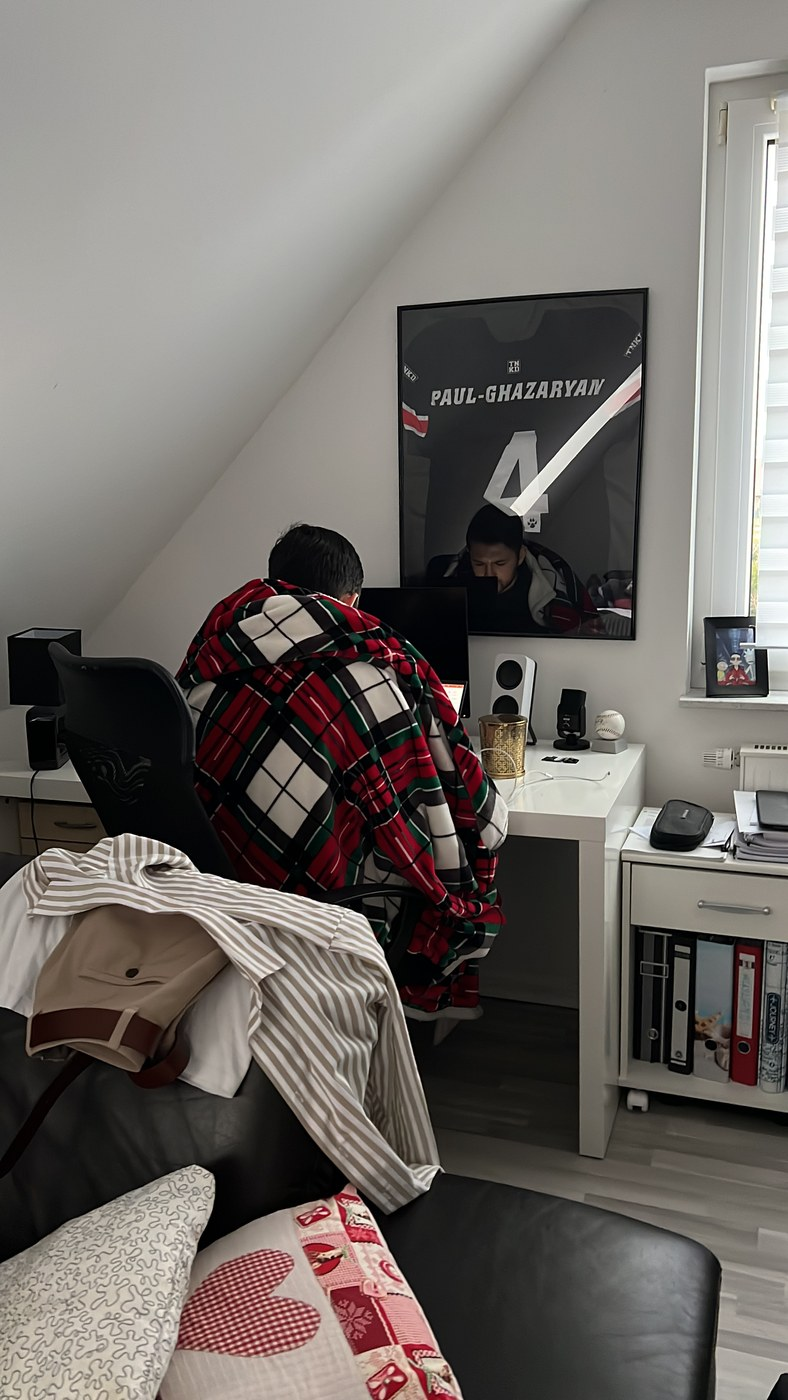
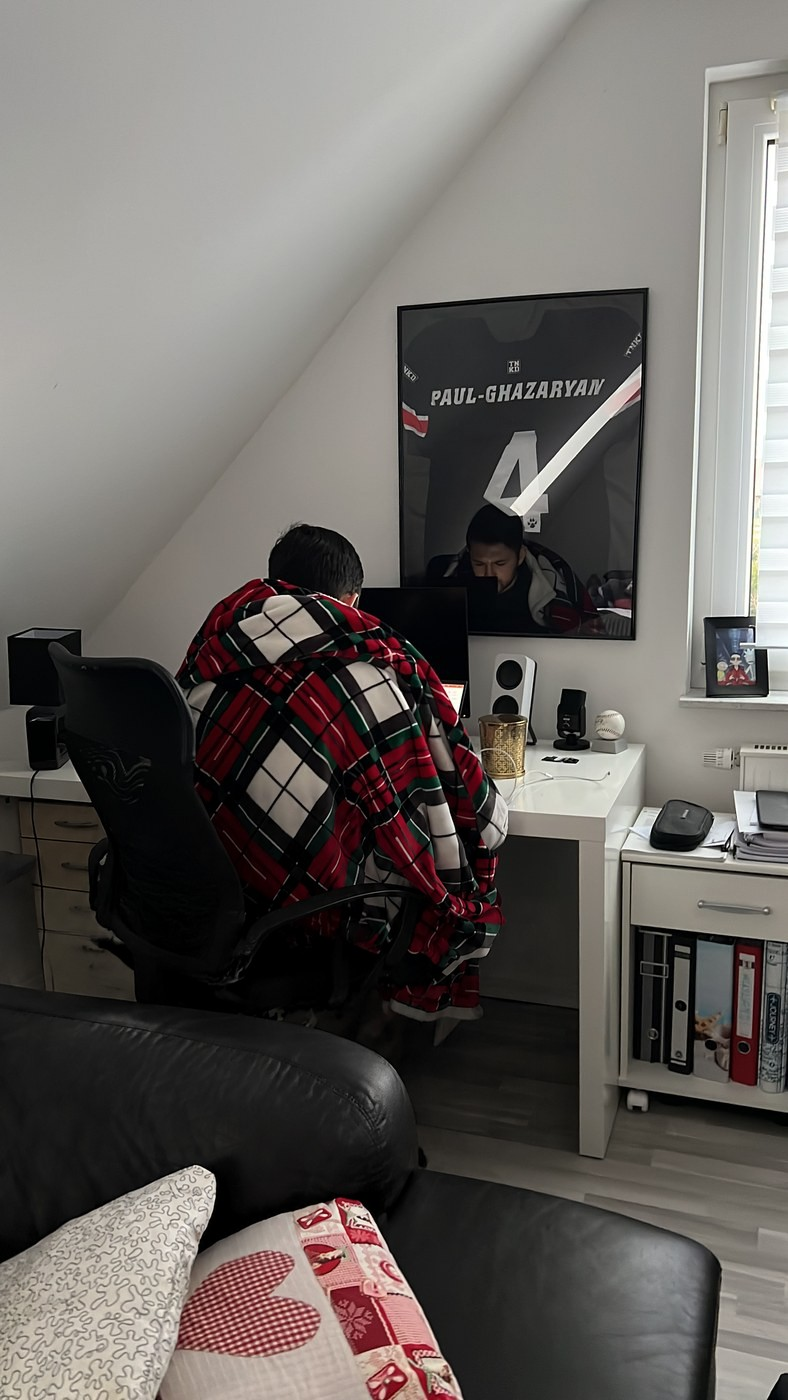
feat: move photos, retouched Ratzeburg photo, no cut-off people in 16:10
- Slide 18 rebuilt from the real move-day photos (27 Sep 2026)
- Clothes removed from the couch in the Ratzeburg photo
- Cutout people fade out softly instead of ending in a hard edge
- Final slide photo extended so both people fit fully in 16:9 and 16:10
- Alles-KI overlay and iceberg stage now fill the whole 16:10 screen
- Manual line breaks for captions, unused old move photos untracked

diff --git a/index.html b/index.html
@@ -450,7 +450,7 @@ body.standbild .polaroid.master { transform: rotate(-4deg) !important; }
 .karte.visible .innen, body.standbild .karte .innen { transform: rotateY(180deg); }
 .karte .seite { position: absolute; inset: 0; border-radius: 22px; backface-visibility: hidden; -webkit-backface-visibility: hidden; display: flex; flex-direction: column; align-items: center; justify-content: center; gap: 14px; padding: 30px; text-align: center; }
 .karte .vorn { background: rgba(244,246,255,.06); border: 1.5px solid rgba(244,246,255,.2); }
-.karte .vorn span { font-size: 46px; font-weight: 700; color: var(--w-70); }
+.karte .vorn span { font-size: 46px; font-weight: 700; color: var(--w-70); white-space: nowrap; }
 .karte .hinten { transform: rotateY(180deg); background: linear-gradient(150deg, #FF5C7A, #E4003A 55%, #9A0027); }
 .karte .hinten b { font-size: 64px; line-height: 1.1; font-weight: 700; color: #fff; text-transform: uppercase; letter-spacing: -.01em; }
 .polaroid.quelle-foto { position: absolute; right: 70px; top: calc(var(--extra) + 36px); width: 320px; margin: 0; padding: 10px 10px 30px; }
@@ -475,6 +475,8 @@ body.hochkant .karten { grid-template-columns: 1fr; }
 .epg-szene, .dom-szene { position: absolute; left: 0; top: var(--extra); width: 1920px; height: 1080px; pointer-events: none; }
 .epg-s1, .epg-s2, .dom-s1 { position: absolute; width: 1px; height: 1px; opacity: 0; }
 .epg-karte { position: absolute; left: 1570px; top: 50px; width: 300px; background: #fff; padding: 20px 24px; border-radius: 10px; transform: rotate(-4deg); margin: 0 !important; }
+.epg-person, .dom-person { -webkit-mask-image: linear-gradient(180deg, #000 72%, transparent 99%); mask-image: linear-gradient(180deg, #000 72%, transparent 99%); }
+.epg-person.emre, .dom-person.p-emre { -webkit-mask-image: linear-gradient(90deg, transparent 0, #000 13%, #000 87%, transparent 100%), linear-gradient(180deg, #000 72%, transparent 99%); -webkit-mask-composite: source-in; mask-image: linear-gradient(90deg, transparent 0, #000 13%, #000 87%, transparent 100%), linear-gradient(180deg, #000 72%, transparent 99%); mask-composite: intersect; }
 .epg-person { position: absolute; bottom: 0; height: 700px; width: auto; margin: 0 !important; max-width: none !important; max-height: none !important; transition: transform 1s cubic-bezier(.5,0,.2,1), opacity .8s; }
 .epg-person.emre { left: 560px; }
 .epg-person.eddie { left: 1080px; z-index: 1; }
@@ -485,7 +487,7 @@ body.hochkant .karten { grid-template-columns: 1fr; }
 .s-emre { left: 803px; top: 690px; }
 .s-eddie-a, .s-eddie-b { left: 1359px; top: 700px; }
 .epg-krone { position: absolute; left: 1299px; top: 318px; width: 120px; height: 80px; opacity: 0; transform: translateY(-260px) rotate(-30deg); transition: transform .8s cubic-bezier(.3,1.5,.4,1), opacity .3s; z-index: 2; }
-.epg-blase { position: absolute; left: 250px; top: 430px; padding: 14px 26px 18px; background: #fff; color: #231F28; border-radius: 26px; font-family: "Caveat", cursive; font-weight: 700; font-size: 58px; opacity: 0; transition: opacity .4s .7s; z-index: 3; }
+.epg-blase { position: absolute; left: 560px; top: 360px; padding: 14px 26px 18px; background: #fff; color: #231F28; border-radius: 26px; font-family: "Caveat", cursive; font-weight: 700; font-size: 58px; opacity: 0; transition: opacity .4s .7s; z-index: 3; }
 .epg-blase::after { content: ""; position: absolute; left: 30px; bottom: -18px; border: 12px solid transparent; border-top: 16px solid #fff; border-left-width: 4px; }
 .epg-label { position: absolute; left: 130px; top: 250px; margin: 0; font-family: "Caveat", cursive; font-weight: 700; font-size: 64px; color: var(--th-hell); opacity: 0; transition: opacity .4s; }
 /* Klick 1: Eddies Vorschlag */
@@ -496,7 +498,7 @@ body.hochkant .karten { grid-template-columns: 1fr; }
 .epg-szene:has(.epg-s1.visible) .s-emre, .epg-szene:has(.epg-s1.visible) .s-eddie-a { opacity: 1; }
 .slide:has(~ .epg-szene .epg-s1.visible) .l1 { opacity: 1; }
 /* Klick 2: was alle gelesen haben */
-.epg-szene:has(.epg-s2.visible) .emre, body.standbild .epg-szene .emre { transform: translateX(-660px) rotate(-14deg); }
+.epg-szene:has(.epg-s2.visible) .emre, body.standbild .epg-szene .emre { transform: translateX(-420px) rotate(-9deg); }
 .epg-szene:has(.epg-s2.visible) .s-emre, .epg-szene:has(.epg-s2.visible) .s-eddie-a { opacity: 0; }
 .epg-szene:has(.epg-s2.visible) .s-eddie-b, .epg-szene:has(.epg-s2.visible) .epg-blase { opacity: 1; }
 .epg-szene:has(.epg-s2.visible) .b-e, body.standbild .epg-szene .b-e { transform: translate(1170px, 0px) rotate(-6deg); }
@@ -607,7 +609,7 @@ body.standbild .polaroid { animation: none !important; }
 /* So arbeiten wir: KI-Video vollflächig, auf Klick die Auflösung */
 .sa-video { position: absolute; left: 0; top: 0; width: 1920px; height: var(--buehne-h); object-fit: cover; margin: 0 !important; max-width: none !important; max-height: none !important; background: #F2F2F2; }
 .sa-titel { position: absolute; left: 60px; top: 50px; margin: 0; padding: 10px 24px 12px; border-radius: 14px; background: rgba(21,18,28,.86); font-size: 40px; font-weight: 700; letter-spacing: -.01em; text-transform: uppercase; }
-.sa-aufloesung { position: absolute; inset: 0; display: flex; flex-direction: column; align-items: center; justify-content: center; text-align: center; background: rgba(8,6,12,.84); }
+.sa-aufloesung { position: absolute; inset: calc(-1 * var(--extra)) 0; display: flex; flex-direction: column; align-items: center; justify-content: center; text-align: center; background: rgba(8,6,12,.84); }
 .sa-aufloesung .hero { font-size: 190px; }
 .sa-aufloesung p { margin: 18px 0 0; font-size: 44px; color: var(--w-70); }
 .sa-kennung { position: absolute; right: 150px; bottom: 26px; margin: 0; padding: 6px 14px; border-radius: 8px; background: rgba(21,18,28,.7); font-size: 20px; letter-spacing: .04em; color: rgba(244,246,255,.85); }
@@ -768,14 +770,15 @@ body.standbild .wachstum .alt { opacity: .28; }
 
 /* Eisberg: über Wasser nur der Prompt, auf Klick taucht alles darunter auf.
    Bild und Begriffe teilen sich eine 1920 x 1080 Bühne, damit Wasserlinie (y 258) und Eisblock (Mitte x 1320) zusammenpassen. */
-.eisberg-buehne { position: absolute; left: 0; top: var(--extra); width: 1920px; height: 1080px; }
-.eisberg-buehne > img { position: absolute; inset: 0; width: 1920px; height: 1080px; margin: 0 !important; max-width: none !important; max-height: none !important; }
-.eis-wasser { position: absolute; left: 0; top: 262px; width: 1920px; height: 818px; background: linear-gradient(180deg, rgba(1,4,18,.55) 0, rgba(1,4,18,.97) 70px, #01040F 100%); transition: opacity 1.6s ease; }
+.eisberg-buehne { position: absolute; left: 0; top: 0; width: 1920px; height: var(--buehne-h); background: linear-gradient(180deg, #04030D 0, #04030D 50%, #01040F 50%, #01040F 100%); }
+.eis-innen { position: absolute; left: 0; top: var(--extra); width: 1920px; height: 1080px; }
+.eis-innen > img { position: absolute; inset: 0; width: 1920px; height: 1080px; margin: 0 !important; max-width: none !important; max-height: none !important; }
+.eis-wasser { position: absolute; left: 0; top: 262px; width: 1920px; height: calc(818px + var(--extra)); background: linear-gradient(180deg, rgba(1,4,18,.55) 0, rgba(1,4,18,.97) 70px, #01040F 100%); transition: opacity 1.6s ease; }
 .eisberg-trigger { position: absolute; width: 1px; height: 1px; opacity: 0; }
 .eis-spitze { position: absolute; left: 1320px; top: 52px; transform: translateX(-50%); padding: 10px 28px; border-radius: 10px; background: linear-gradient(135deg, #E4003A, #FF5C7A); color: #fff; font-size: 32px; font-weight: 700; letter-spacing: .06em; text-transform: uppercase; filter: drop-shadow(0 0 26px rgba(228,0,58,.6)); }
 .eis-schicht { position: absolute; left: 1320px; top: var(--y); transform: translate(-50%, 18px); padding: 8px 24px; border-radius: 10px; background: rgba(1,4,18,.55); border: 1.5px solid rgba(190,225,255,.35); color: #EAF4FF; font-size: 28px; font-weight: 700; letter-spacing: .06em; text-transform: uppercase; white-space: nowrap; opacity: 0; transition: opacity .5s, transform .5s; }
-.eisberg-buehne:has(.eisberg-trigger.visible) .eis-wasser { opacity: 0; }
-.eisberg-buehne:has(.eisberg-trigger.visible) .eis-schicht { opacity: 1; transform: translate(-50%, 0); transition-delay: calc(.9s + var(--i) * .12s); }
+.eis-innen:has(.eisberg-trigger.visible) .eis-wasser { opacity: 0; }
+.eis-innen:has(.eisberg-trigger.visible) .eis-schicht { opacity: 1; transform: translate(-50%, 0); transition-delay: calc(.9s + var(--i) * .12s); }
 body.standbild .eis-wasser { opacity: 0; }
 body.standbild .eis-schicht { opacity: 1; transform: translate(-50%, 0); }
 body.hochkant .eisberg-buehne { transform: scale(.5625); transform-origin: top left; top: 1100px; }
@@ -861,8 +864,8 @@ body.hochkant .orbit { top: 600px; left: -840px; }
 .offen { font-size: 52px; font-weight: 700; margin: 10px 0 0; }
 
 /* Ende */
-.ende-foto { position: absolute; right: 0; top: 0; width: 900px; height: var(--buehne-h); object-fit: cover; object-position: 50% 35%; margin: 0 !important; max-width: none !important; max-height: none !important;
-  -webkit-mask-image: linear-gradient(90deg, transparent 0, #000 34%); mask-image: linear-gradient(90deg, transparent 0, #000 34%); }
+.ende-foto { position: absolute; right: 0; top: 0; width: 960px; height: var(--buehne-h); object-fit: cover; object-position: 35% 50%; margin: 0 !important; max-width: none !important; max-height: none !important;
+  -webkit-mask-image: linear-gradient(90deg, transparent 0, #000 20%); mask-image: linear-gradient(90deg, transparent 0, #000 20%); }
 body.hochkant .ende-foto { width: 1080px; height: 900px; top: auto; bottom: 0; -webkit-mask-image: linear-gradient(180deg, transparent 0, #000 40%); mask-image: linear-gradient(180deg, transparent 0, #000 40%); }
 .slide.schluss { justify-content: center; }
 .slide.schluss .hero { font-size: 112px; max-width: 1100px; }
@@ -921,15 +924,15 @@ body.hochkant .balken-zeile .spur, body.hochkant .balken-zeile .platz { grid-col
 .bento figure { margin: 0; border-radius: 14px; overflow: hidden; min-height: 0; background: #111; }
 .bento img { width: 100%; height: 100%; object-fit: cover; display: block; margin: 0 !important; max-width: none !important; max-height: none !important; }
 .bento .b-sofa { grid-column: 1; grid-row: 1 / 3; }
-.bento .b-sofa img { object-position: 40% 70%; }
+.bento .b-sofa img { object-position: 50% 78%; }
 .bento .b-rathaus { grid-column: 2 / 4; grid-row: 1; }
-.bento .b-rathaus img { object-position: 50% 62%; }
+.bento .b-rathaus img { object-position: 50% 40%; }
 .bento .b-schild { grid-column: 2; grid-row: 2; }
-.bento .b-schild img { object-position: 50% 50%; }
+.bento .b-schild img { object-position: 30% 55%; }
 .bento .b-tisch { grid-column: 3; grid-row: 2; }
-.bento .b-tisch img { object-position: 50% 45%; }
+.bento .b-tisch img { object-position: 60% 45%; }
 .bento .b-regal { grid-column: 4; grid-row: 1 / 3; }
-.bento .b-regal img { object-position: 45% 50%; }
+.bento .b-regal img { object-position: 60% 55%; }
 .reveal section.present .bento figure { animation: kachel-ein .6s calc(.1s + var(--i) * .12s) cubic-bezier(.2,.8,.3,1) both; }
 @keyframes kachel-ein { from { opacity: 0; transform: scale(.94); } to { opacity: 1; transform: none; } }
 body.standbild .bento figure { animation: none !important; }
@@ -1180,16 +1183,16 @@ body.hochkant .band-anfang { grid-template-columns: 1fr 1fr; grid-auto-rows: 1fr
 <!-- ============ DIE ANFÄNGE: UMZUG ============ -->
 <section class="f-th" data-stimmung="neutral" data-chrome="zahl">
   <div class="slide umzug-folie">
-    <span class="umzug-datum">1. Oktober 2026</span>
+    <span class="umzug-datum">27. September 2026</span>
     <div class="bento">
-      <figure class="b-sofa" style="--i:0;"><img src="assets/fotos/umzug-sofa-buero.jpg" alt="Drei Männer auf einem grünen Sofa mitten auf der Straße vor dem Büro"></figure>
-      <figure class="b-rathaus" style="--i:1;"><img src="assets/fotos/umzug-rathaus.jpg" alt="Dasselbe Sofa vor dem Lübecker Rathaus"></figure>
-      <figure class="b-schild" style="--i:2;"><img src="assets/fotos/umzug-transporter.jpg" alt="Das eingepackte Sofa im Transporter"></figure>
-      <figure class="b-tisch" style="--i:3;"><img src="assets/fotos/umzug-schreibtisch.jpg" alt="Ein Schreibtisch wird zwischen Kartons aufgebaut"></figure>
-      <figure class="b-regal" style="--i:4;"><img src="assets/fotos/umzug-regal.jpg" alt="Ein Regal wird durchs Fenster getragen"></figure>
+      <figure class="b-sofa" style="--i:0;"><img src="assets/fotos/umzug-team-sofa.jpg" alt="Das ganze Team zu fünft auf dem grünen Sofa vor der HypoVereinsbank"></figure>
+      <figure class="b-rathaus" style="--i:1;"><img src="assets/fotos/umzug-im-transporter.jpg" alt="Eddie und Dom mit dem eingepackten Sofa im Transporter"></figure>
+      <figure class="b-schild" style="--i:2;"><img src="assets/fotos/umzug-sofa-boden.jpg" alt="Das eingepackte Sofa im alten Büro, daneben liegt jemand auf dem Boden"></figure>
+      <figure class="b-tisch" style="--i:3;"><img src="assets/fotos/umzug-treppe.jpg" alt="Ein Kollege trägt eine Teppichrolle durchs Treppenhaus"></figure>
+      <figure class="b-regal" style="--i:4;"><img src="assets/fotos/umzug-ankunft.jpg" alt="Der Transporter vor dem neuen Büro, Emre wartet am Fenster"></figure>
     </div>
   </div>
-  <aside class="notes">1. Oktober 2026, Umzug in die Marlesgrube. Das grüne Sofa haben wir mitten auf die Straße gestellt, direkt vor die HypoVereinsbank, über der jetzt unser Büro ist. Dasselbe Sofa vorher vor dem Rathaus. Durchs Fenster musste unser großer Digital-Signage-Bildschirm, auf dem unsere Avatare laufen. Eine Geschichte pro Foto reicht.</aside>
+  <aside class="notes">Der Umzugstag, 27. September 2026. Erst das grüne Sofa im alten Büro eingepackt, irgendwann lag jemand einfach daneben auf dem Boden. Dann ab in den Transporter, Eddie und Dom mit Daumen hoch. Vor der Marlesgrube wartet Emre am Fenster, und alles muss durchs Treppenhaus nach oben. Am Ende sitzt das ganze Team auf dem Sofa vor der HypoVereinsbank, über der jetzt unser Büro ist. Seit dem 1. Oktober arbeiten wir dort. Eine Geschichte pro Foto reicht.</aside>
 </section>
 
 <!-- ============ TEAM HEUTE ============ -->
@@ -1262,7 +1265,7 @@ body.hochkant .band-anfang { grid-template-columns: 1fr 1fr; grid-auto-rows: 1fr
 
 <!-- ============ THESE 2 ============ -->
 <section class="f-th" data-stimmung="neutral">
-  <figure class="polaroid stapel" style="left:990px;top:calc(var(--extra) + 70px);width:600px;--d:-3deg;--y:0px;--i:0;"><img src="assets/fotos/nachtarbeit.jpg" alt=""><figcaption>irgendwann nachts</figcaption></figure><figure class="polaroid stapel" style="left:1515px;top:calc(var(--extra) + 110px);width:330px;--d:6deg;--y:0px;--i:1;"><img src="assets/fotos/moment-bildschirme.jpg" alt=""><figcaption>Mehr Bildschirme. Weniger Probleme.</figcaption></figure><figure class="polaroid stapel" style="left:950px;top:calc(var(--extra) + 545px);width:300px;--d:-6deg;--y:0px;--i:2;"><img src="assets/fotos/moment-ueberflieger.jpg" alt="Eddie und Emre beim Überflieger-Wettbewerb"><figcaption>Überflieger, Kiel 2023</figcaption></figure><figure class="polaroid stapel" style="left:1275px;top:calc(var(--extra) + 520px);width:265px;--d:3deg;--y:0px;--i:3;"><img src="assets/fotos/moment-gewonnen.jpg" alt="Emre mit der Urkunde vom Social Hackathon"><figcaption>Social Hackathon 2024</figcaption></figure><figure class="polaroid stapel" style="left:1565px;top:calc(var(--extra) + 560px);width:300px;--d:-4deg;--y:0px;--i:4;"><img src="assets/fotos/preis-2025.jpg" alt="Das Team auf der Bühne beim Existenzgründerpreis"><figcaption>Existenzgründerpreis 2025</figcaption></figure>
+  <figure class="polaroid stapel" style="left:990px;top:calc(var(--extra) + 70px);width:600px;--d:-3deg;--y:0px;--i:0;"><img src="assets/fotos/nachtarbeit.jpg" alt=""><figcaption>irgendwann nachts</figcaption></figure><figure class="polaroid stapel" style="left:1515px;top:calc(var(--extra) + 110px);width:330px;--d:6deg;--y:0px;--i:1;"><img src="assets/fotos/moment-bildschirme.jpg" alt=""><figcaption>Mehr Bildschirme.<br>Weniger Probleme.</figcaption></figure><figure class="polaroid stapel" style="left:950px;top:calc(var(--extra) + 545px);width:300px;--d:-6deg;--y:0px;--i:2;"><img src="assets/fotos/moment-ueberflieger.jpg" alt="Eddie und Emre beim Überflieger-Wettbewerb"><figcaption>Überflieger, Kiel 2023</figcaption></figure><figure class="polaroid stapel" style="left:1275px;top:calc(var(--extra) + 520px);width:265px;--d:3deg;--y:0px;--i:3;"><img src="assets/fotos/moment-gewonnen.jpg" alt="Emre mit der Urkunde vom Social Hackathon"><figcaption>Social Hackathon 2024</figcaption></figure><figure class="polaroid stapel" style="left:1565px;top:calc(var(--extra) + 560px);width:300px;--d:-4deg;--y:0px;--i:4;"><img src="assets/fotos/preis-2025.jpg" alt="Das Team auf der Bühne beim Existenzgründerpreis"><figcaption>Existenzgründerpreis 2025</figcaption></figure>
   <div class="slide links-mitte">
     <h2 class="these" style="max-width:760px;">Anfangen schlägt <span class="schimmer">Planen.</span></h2>
   </div>
@@ -1275,7 +1278,7 @@ body.hochkant .band-anfang { grid-template-columns: 1fr 1fr; grid-auto-rows: 1fr
     <h2 class="headline" style="font-size:70px;max-width:1350px;">Worin Gründer zu früh <span class="schimmer">investieren</span></h2>
     <div class="karten"><div class="karte fragment"><div class="innen"><div class="seite vorn"><span>Logo</span><span>Website</span><span>Visitenkarten</span></div><div class="seite hinten"><b>Keiner sieht dich.</b></div></div></div><div class="karte fragment"><div class="innen"><div class="seite vorn"><span>Büromöbel</span><span>Büro</span><span>Schicke Gegenstände</span></div><div class="seite hinten"><b>Keiner besucht dich.</b></div></div></div><div class="karte fragment"><div class="innen"><div class="seite vorn"><span>Investoren</span><span>Testphasen</span></div><div class="seite hinten"><b>Bubble.</b></div></div></div></div>
   </div>
-  <figure class="polaroid quelle-foto" style="--d:5deg;--y:0px;--i:0;"><img src="assets/fotos/tough-talks.jpg" alt="Emre am Whiteboard in den Tough Talks"><figcaption>Tough Talks, ein Format unseres<br>YouTube-Kanals</figcaption></figure>
+  <figure class="polaroid quelle-foto" style="--d:5deg;--y:0px;--i:0;"><img src="assets/fotos/tough-talks.jpg" alt="Emre am Whiteboard in den Tough Talks"><figcaption>Tough Talks, ein Format<br>unseres YouTube-Kanals</figcaption></figure>
   <aside class="notes">Die drei Punkte stammen aus Emres Whiteboard in den Tough Talks, einem Format unseres YouTube-Kanals (oben rechts). Drei Karten, drei Klicks. Vorne das, worin fast jeder Gründer zuerst Zeit und Geld steckt. Umgedreht die Wahrheit: Logo, Website, Visitenkarten, keiner sieht dich. Büro, Möbel, schicke Sachen, keiner besucht dich. Investoren und ewige Testphasen, du lebst in einer Blase. Emre erzählt dazu, was wir selbst falsch gemacht haben.</aside>
 </section>
 
@@ -1461,13 +1464,13 @@ mein Laptop und ich haben uns gestern getrennt. Es ging nicht von mir aus.</span
 
 <!-- ============ EISBERG ============ -->
 <section class="f-th" data-stimmung="neutral">
-  <div class="eisberg-buehne">
+  <div class="eisberg-buehne"><div class="eis-innen">
   <img src="assets/illu/eisberg.jpg" alt="Ein Eisberg: kleine Spitze über Wasser, riesige Masse darunter">
   <div class="eis-wasser"></div>
   <div class="eis-spitze">Prompt</div>
   <span class="eisberg-trigger fragment" aria-hidden="true"></span>
   <div class="eis-schicht" style="--i:0;--y:336px;">Login</div><div class="eis-schicht" style="--i:1;--y:416px;">Datenbank</div><div class="eis-schicht" style="--i:2;--y:496px;">Datenschutz</div><div class="eis-schicht" style="--i:3;--y:576px;">Hosting</div><div class="eis-schicht" style="--i:4;--y:656px;">Sicherheit</div><div class="eis-schicht" style="--i:5;--y:736px;">Backups</div><div class="eis-schicht" style="--i:6;--y:816px;">Wartung</div>
-</div>
+</div></div>
   <div class="slide links-mitte">
     <h2 class="headline">Die KI baut<br>nur die <span class="schimmer">Spitze.</span></h2>
   </div>
@@ -1581,7 +1584,7 @@ mein Laptop und ich haben uns gestern getrennt. Es ging nicht von mir aus.</span
 
 <!-- ============ ENDE ============ -->
 <section class="f-hblau" data-stimmung="hblau" data-chrome="zahl">
-  <img class="ende-foto" src="assets/fotos/duo-event.jpg" alt="Emre Erdogan und Edgar Paul-Ghazaryan">
+  <img class="ende-foto" src="assets/fotos/duo-event-hoch.jpg" alt="Emre Erdogan und Edgar Paul-Ghazaryan">
   <div class="slide schluss">
     <h2 class="hero">Und jetzt:<br><span class="schimmer">ausprobieren.</span></h2>
     <div class="kontakt"><img src="assets/logos/edge-logo-white.png" alt="EDGE Digital"><p><b>Emre Erdogan &amp; Edgar Paul-Ghazaryan</b><br>emre@edge-digital.com · edgar@edge-digital.com</p></div>

diff --git a/bau.py b/bau.py
@@ -312,7 +312,7 @@ body.standbild .polaroid.master { transform: rotate(-4deg) !important; }
 .karte.visible .innen, body.standbild .karte .innen { transform: rotateY(180deg); }
 .karte .seite { position: absolute; inset: 0; border-radius: 22px; backface-visibility: hidden; -webkit-backface-visibility: hidden; display: flex; flex-direction: column; align-items: center; justify-content: center; gap: 14px; padding: 30px; text-align: center; }
 .karte .vorn { background: rgba(244,246,255,.06); border: 1.5px solid rgba(244,246,255,.2); }
-.karte .vorn span { font-size: 46px; font-weight: 700; color: var(--w-70); }
+.karte .vorn span { font-size: 46px; font-weight: 700; color: var(--w-70); white-space: nowrap; }
 .karte .hinten { transform: rotateY(180deg); background: linear-gradient(150deg, #FF5C7A, #E4003A 55%, #9A0027); }
 .karte .hinten b { font-size: 64px; line-height: 1.1; font-weight: 700; color: #fff; text-transform: uppercase; letter-spacing: -.01em; }
 .polaroid.quelle-foto { position: absolute; right: 70px; top: calc(var(--extra) + 36px); width: 320px; margin: 0; padding: 10px 10px 30px; }
@@ -337,6 +337,8 @@ body.hochkant .karten { grid-template-columns: 1fr; }
 .epg-szene, .dom-szene { position: absolute; left: 0; top: var(--extra); width: 1920px; height: 1080px; pointer-events: none; }
 .epg-s1, .epg-s2, .dom-s1 { position: absolute; width: 1px; height: 1px; opacity: 0; }
 .epg-karte { position: absolute; left: 1570px; top: 50px; width: 300px; background: #fff; padding: 20px 24px; border-radius: 10px; transform: rotate(-4deg); margin: 0 !important; }
+.epg-person, .dom-person { -webkit-mask-image: linear-gradient(180deg, #000 72%, transparent 99%); mask-image: linear-gradient(180deg, #000 72%, transparent 99%); }
+.epg-person.emre, .dom-person.p-emre { -webkit-mask-image: linear-gradient(90deg, transparent 0, #000 13%, #000 87%, transparent 100%), linear-gradient(180deg, #000 72%, transparent 99%); -webkit-mask-composite: source-in; mask-image: linear-gradient(90deg, transparent 0, #000 13%, #000 87%, transparent 100%), linear-gradient(180deg, #000 72%, transparent 99%); mask-composite: intersect; }
 .epg-person { position: absolute; bottom: 0; height: 700px; width: auto; margin: 0 !important; max-width: none !important; max-height: none !important; transition: transform 1s cubic-bezier(.5,0,.2,1), opacity .8s; }
 .epg-person.emre { left: 560px; }
 .epg-person.eddie { left: 1080px; z-index: 1; }
@@ -347,7 +349,7 @@ body.hochkant .karten { grid-template-columns: 1fr; }
 .s-emre { left: 803px; top: 690px; }
 .s-eddie-a, .s-eddie-b { left: 1359px; top: 700px; }
 .epg-krone { position: absolute; left: 1299px; top: 318px; width: 120px; height: 80px; opacity: 0; transform: translateY(-260px) rotate(-30deg); transition: transform .8s cubic-bezier(.3,1.5,.4,1), opacity .3s; z-index: 2; }
-.epg-blase { position: absolute; left: 250px; top: 430px; padding: 14px 26px 18px; background: #fff; color: #231F28; border-radius: 26px; font-family: "Caveat", cursive; font-weight: 700; font-size: 58px; opacity: 0; transition: opacity .4s .7s; z-index: 3; }
+.epg-blase { position: absolute; left: 560px; top: 360px; padding: 14px 26px 18px; background: #fff; color: #231F28; border-radius: 26px; font-family: "Caveat", cursive; font-weight: 700; font-size: 58px; opacity: 0; transition: opacity .4s .7s; z-index: 3; }
 .epg-blase::after { content: ""; position: absolute; left: 30px; bottom: -18px; border: 12px solid transparent; border-top: 16px solid #fff; border-left-width: 4px; }
 .epg-label { position: absolute; left: 130px; top: 250px; margin: 0; font-family: "Caveat", cursive; font-weight: 700; font-size: 64px; color: var(--th-hell); opacity: 0; transition: opacity .4s; }
 /* Klick 1: Eddies Vorschlag */
@@ -358,7 +360,7 @@ body.hochkant .karten { grid-template-columns: 1fr; }
 .epg-szene:has(.epg-s1.visible) .s-emre, .epg-szene:has(.epg-s1.visible) .s-eddie-a { opacity: 1; }
 .slide:has(~ .epg-szene .epg-s1.visible) .l1 { opacity: 1; }
 /* Klick 2: was alle gelesen haben */
-.epg-szene:has(.epg-s2.visible) .emre, body.standbild .epg-szene .emre { transform: translateX(-660px) rotate(-14deg); }
+.epg-szene:has(.epg-s2.visible) .emre, body.standbild .epg-szene .emre { transform: translateX(-420px) rotate(-9deg); }
 .epg-szene:has(.epg-s2.visible) .s-emre, .epg-szene:has(.epg-s2.visible) .s-eddie-a { opacity: 0; }
 .epg-szene:has(.epg-s2.visible) .s-eddie-b, .epg-szene:has(.epg-s2.visible) .epg-blase { opacity: 1; }
 .epg-szene:has(.epg-s2.visible) .b-e, body.standbild .epg-szene .b-e { transform: translate(1170px, 0px) rotate(-6deg); }
@@ -469,7 +471,7 @@ body.standbild .polaroid { animation: none !important; }
 /* So arbeiten wir: KI-Video vollflächig, auf Klick die Auflösung */
 .sa-video { position: absolute; left: 0; top: 0; width: 1920px; height: var(--buehne-h); object-fit: cover; margin: 0 !important; max-width: none !important; max-height: none !important; background: #F2F2F2; }
 .sa-titel { position: absolute; left: 60px; top: 50px; margin: 0; padding: 10px 24px 12px; border-radius: 14px; background: rgba(21,18,28,.86); font-size: 40px; font-weight: 700; letter-spacing: -.01em; text-transform: uppercase; }
-.sa-aufloesung { position: absolute; inset: 0; display: flex; flex-direction: column; align-items: center; justify-content: center; text-align: center; background: rgba(8,6,12,.84); }
+.sa-aufloesung { position: absolute; inset: calc(-1 * var(--extra)) 0; display: flex; flex-direction: column; align-items: center; justify-content: center; text-align: center; background: rgba(8,6,12,.84); }
 .sa-aufloesung .hero { font-size: 190px; }
 .sa-aufloesung p { margin: 18px 0 0; font-size: 44px; color: var(--w-70); }
 .sa-kennung { position: absolute; right: 150px; bottom: 26px; margin: 0; padding: 6px 14px; border-radius: 8px; background: rgba(21,18,28,.7); font-size: 20px; letter-spacing: .04em; color: rgba(244,246,255,.85); }
@@ -630,14 +632,15 @@ body.standbild .wachstum .alt { opacity: .28; }
 
 /* Eisberg: über Wasser nur der Prompt, auf Klick taucht alles darunter auf.
    Bild und Begriffe teilen sich eine 1920 x 1080 Bühne, damit Wasserlinie (y 258) und Eisblock (Mitte x 1320) zusammenpassen. */
-.eisberg-buehne { position: absolute; left: 0; top: var(--extra); width: 1920px; height: 1080px; }
-.eisberg-buehne > img { position: absolute; inset: 0; width: 1920px; height: 1080px; margin: 0 !important; max-width: none !important; max-height: none !important; }
-.eis-wasser { position: absolute; left: 0; top: 262px; width: 1920px; height: 818px; background: linear-gradient(180deg, rgba(1,4,18,.55) 0, rgba(1,4,18,.97) 70px, #01040F 100%); transition: opacity 1.6s ease; }
+.eisberg-buehne { position: absolute; left: 0; top: 0; width: 1920px; height: var(--buehne-h); background: linear-gradient(180deg, #04030D 0, #04030D 50%, #01040F 50%, #01040F 100%); }
+.eis-innen { position: absolute; left: 0; top: var(--extra); width: 1920px; height: 1080px; }
+.eis-innen > img { position: absolute; inset: 0; width: 1920px; height: 1080px; margin: 0 !important; max-width: none !important; max-height: none !important; }
+.eis-wasser { position: absolute; left: 0; top: 262px; width: 1920px; height: calc(818px + var(--extra)); background: linear-gradient(180deg, rgba(1,4,18,.55) 0, rgba(1,4,18,.97) 70px, #01040F 100%); transition: opacity 1.6s ease; }
 .eisberg-trigger { position: absolute; width: 1px; height: 1px; opacity: 0; }
 .eis-spitze { position: absolute; left: 1320px; top: 52px; transform: translateX(-50%); padding: 10px 28px; border-radius: 10px; background: linear-gradient(135deg, #E4003A, #FF5C7A); color: #fff; font-size: 32px; font-weight: 700; letter-spacing: .06em; text-transform: uppercase; filter: drop-shadow(0 0 26px rgba(228,0,58,.6)); }
 .eis-schicht { position: absolute; left: 1320px; top: var(--y); transform: translate(-50%, 18px); padding: 8px 24px; border-radius: 10px; background: rgba(1,4,18,.55); border: 1.5px solid rgba(190,225,255,.35); color: #EAF4FF; font-size: 28px; font-weight: 700; letter-spacing: .06em; text-transform: uppercase; white-space: nowrap; opacity: 0; transition: opacity .5s, transform .5s; }
-.eisberg-buehne:has(.eisberg-trigger.visible) .eis-wasser { opacity: 0; }
-.eisberg-buehne:has(.eisberg-trigger.visible) .eis-schicht { opacity: 1; transform: translate(-50%, 0); transition-delay: calc(.9s + var(--i) * .12s); }
+.eis-innen:has(.eisberg-trigger.visible) .eis-wasser { opacity: 0; }
+.eis-innen:has(.eisberg-trigger.visible) .eis-schicht { opacity: 1; transform: translate(-50%, 0); transition-delay: calc(.9s + var(--i) * .12s); }
 body.standbild .eis-wasser { opacity: 0; }
 body.standbild .eis-schicht { opacity: 1; transform: translate(-50%, 0); }
 body.hochkant .eisberg-buehne { transform: scale(.5625); transform-origin: top left; top: 1100px; }
@@ -723,8 +726,8 @@ body.hochkant .orbit { top: 600px; left: -840px; }
 .offen { font-size: 52px; font-weight: 700; margin: 10px 0 0; }
 
 /* Ende */
-.ende-foto { position: absolute; right: 0; top: 0; width: 900px; height: var(--buehne-h); object-fit: cover; object-position: 50% 35%; margin: 0 !important; max-width: none !important; max-height: none !important;
-  -webkit-mask-image: linear-gradient(90deg, transparent 0, #000 34%); mask-image: linear-gradient(90deg, transparent 0, #000 34%); }
+.ende-foto { position: absolute; right: 0; top: 0; width: 960px; height: var(--buehne-h); object-fit: cover; object-position: 35% 50%; margin: 0 !important; max-width: none !important; max-height: none !important;
+  -webkit-mask-image: linear-gradient(90deg, transparent 0, #000 20%); mask-image: linear-gradient(90deg, transparent 0, #000 20%); }
 body.hochkant .ende-foto { width: 1080px; height: 900px; top: auto; bottom: 0; -webkit-mask-image: linear-gradient(180deg, transparent 0, #000 40%); mask-image: linear-gradient(180deg, transparent 0, #000 40%); }
 .slide.schluss { justify-content: center; }
 .slide.schluss .hero { font-size: 112px; max-width: 1100px; }
@@ -801,13 +804,13 @@ def eisberg():
     """Prompt über Wasser, darunter der Unterbau, von oben nach unten im Eisblock. Erscheint auf Klick."""
     unter = list(reversed(TURM))
     schichten = "".join(f'<div class="eis-schicht" style="--i:{k};--y:{336 + k * 80}px;">{s}</div>' for k, s in enumerate(unter))
-    return f'''<div class="eisberg-buehne">
+    return f'''<div class="eisberg-buehne"><div class="eis-innen">
   <img src="assets/illu/eisberg.jpg" alt="Ein Eisberg: kleine Spitze über Wasser, riesige Masse darunter">
   <div class="eis-wasser"></div>
   <div class="eis-spitze">Prompt</div>
   <span class="eisberg-trigger fragment" aria-hidden="true"></span>
   {schichten}
-</div>'''
+</div></div>'''
 
 
 # Unsere Route: Punkte im SVG (1660 x 600), mit Umweg und Schleife. Nur belegte Stationen.
@@ -1227,16 +1230,16 @@ def bau():
 <!-- ============ DIE ANFÄNGE: UMZUG ============ -->
 <section class="f-th" data-stimmung="neutral" data-chrome="zahl">
   <div class="slide umzug-folie">
-    <span class="umzug-datum">1. Oktober 2026</span>
+    <span class="umzug-datum">27. September 2026</span>
     <div class="bento">
-      <figure class="b-sofa" style="--i:0;"><img src="assets/fotos/umzug-sofa-buero.jpg" alt="Drei Männer auf einem grünen Sofa mitten auf der Straße vor dem Büro"></figure>
-      <figure class="b-rathaus" style="--i:1;"><img src="assets/fotos/umzug-rathaus.jpg" alt="Dasselbe Sofa vor dem Lübecker Rathaus"></figure>
-      <figure class="b-schild" style="--i:2;"><img src="assets/fotos/umzug-transporter.jpg" alt="Das eingepackte Sofa im Transporter"></figure>
-      <figure class="b-tisch" style="--i:3;"><img src="assets/fotos/umzug-schreibtisch.jpg" alt="Ein Schreibtisch wird zwischen Kartons aufgebaut"></figure>
-      <figure class="b-regal" style="--i:4;"><img src="assets/fotos/umzug-regal.jpg" alt="Ein Regal wird durchs Fenster getragen"></figure>
+      <figure class="b-sofa" style="--i:0;"><img src="assets/fotos/umzug-team-sofa.jpg" alt="Das ganze Team zu fünft auf dem grünen Sofa vor der HypoVereinsbank"></figure>
+      <figure class="b-rathaus" style="--i:1;"><img src="assets/fotos/umzug-im-transporter.jpg" alt="Eddie und Dom mit dem eingepackten Sofa im Transporter"></figure>
+      <figure class="b-schild" style="--i:2;"><img src="assets/fotos/umzug-sofa-boden.jpg" alt="Das eingepackte Sofa im alten Büro, daneben liegt jemand auf dem Boden"></figure>
+      <figure class="b-tisch" style="--i:3;"><img src="assets/fotos/umzug-treppe.jpg" alt="Ein Kollege trägt eine Teppichrolle durchs Treppenhaus"></figure>
+      <figure class="b-regal" style="--i:4;"><img src="assets/fotos/umzug-ankunft.jpg" alt="Der Transporter vor dem neuen Büro, Emre wartet am Fenster"></figure>
     </div>
   </div>
-  {notizen("1. Oktober 2026, Umzug in die Marlesgrube. Das grüne Sofa haben wir mitten auf die Straße gestellt, direkt vor die HypoVereinsbank, über der jetzt unser Büro ist. Dasselbe Sofa vorher vor dem Rathaus. Durchs Fenster musste unser großer Digital-Signage-Bildschirm, auf dem unsere Avatare laufen. Eine Geschichte pro Foto reicht.")}
+  {notizen("Der Umzugstag, 27. September 2026. Erst das grüne Sofa im alten Büro eingepackt, irgendwann lag jemand einfach daneben auf dem Boden. Dann ab in den Transporter, Eddie und Dom mit Daumen hoch. Vor der Marlesgrube wartet Emre am Fenster, und alles muss durchs Treppenhaus nach oben. Am Ende sitzt das ganze Team auf dem Sofa vor der HypoVereinsbank, über der jetzt unser Büro ist. Seit dem 1. Oktober arbeiten wir dort. Eine Geschichte pro Foto reicht.")}
 </section>
 
 <!-- ============ TEAM HEUTE ============ -->
@@ -1274,7 +1277,7 @@ def bau():
 
 <!-- ============ THESE 2 ============ -->
 <section class="f-th" data-stimmung="neutral">
-  <figure class="polaroid stapel" style="left:990px;top:calc(var(--extra) + 70px);width:600px;--d:-3deg;--y:0px;--i:0;"><img src="assets/fotos/nachtarbeit.jpg" alt=""><figcaption>irgendwann nachts</figcaption></figure><figure class="polaroid stapel" style="left:1515px;top:calc(var(--extra) + 110px);width:330px;--d:6deg;--y:0px;--i:1;"><img src="assets/fotos/moment-bildschirme.jpg" alt=""><figcaption>Mehr Bildschirme. Weniger Probleme.</figcaption></figure><figure class="polaroid stapel" style="left:950px;top:calc(var(--extra) + 545px);width:300px;--d:-6deg;--y:0px;--i:2;"><img src="assets/fotos/moment-ueberflieger.jpg" alt="Eddie und Emre beim Überflieger-Wettbewerb"><figcaption>Überflieger, Kiel 2023</figcaption></figure><figure class="polaroid stapel" style="left:1275px;top:calc(var(--extra) + 520px);width:265px;--d:3deg;--y:0px;--i:3;"><img src="assets/fotos/moment-gewonnen.jpg" alt="Emre mit der Urkunde vom Social Hackathon"><figcaption>Social Hackathon 2024</figcaption></figure><figure class="polaroid stapel" style="left:1565px;top:calc(var(--extra) + 560px);width:300px;--d:-4deg;--y:0px;--i:4;"><img src="assets/fotos/preis-2025.jpg" alt="Das Team auf der Bühne beim Existenzgründerpreis"><figcaption>Existenzgründerpreis 2025</figcaption></figure>
+  <figure class="polaroid stapel" style="left:990px;top:calc(var(--extra) + 70px);width:600px;--d:-3deg;--y:0px;--i:0;"><img src="assets/fotos/nachtarbeit.jpg" alt=""><figcaption>irgendwann nachts</figcaption></figure><figure class="polaroid stapel" style="left:1515px;top:calc(var(--extra) + 110px);width:330px;--d:6deg;--y:0px;--i:1;"><img src="assets/fotos/moment-bildschirme.jpg" alt=""><figcaption>Mehr Bildschirme.<br>Weniger Probleme.</figcaption></figure><figure class="polaroid stapel" style="left:950px;top:calc(var(--extra) + 545px);width:300px;--d:-6deg;--y:0px;--i:2;"><img src="assets/fotos/moment-ueberflieger.jpg" alt="Eddie und Emre beim Überflieger-Wettbewerb"><figcaption>Überflieger, Kiel 2023</figcaption></figure><figure class="polaroid stapel" style="left:1275px;top:calc(var(--extra) + 520px);width:265px;--d:3deg;--y:0px;--i:3;"><img src="assets/fotos/moment-gewonnen.jpg" alt="Emre mit der Urkunde vom Social Hackathon"><figcaption>Social Hackathon 2024</figcaption></figure><figure class="polaroid stapel" style="left:1565px;top:calc(var(--extra) + 560px);width:300px;--d:-4deg;--y:0px;--i:4;"><img src="assets/fotos/preis-2025.jpg" alt="Das Team auf der Bühne beim Existenzgründerpreis"><figcaption>Existenzgründerpreis 2025</figcaption></figure>
   <div class="slide links-mitte">
     <h2 class="these" style="max-width:760px;">Anfangen schlägt <span class="schimmer">Planen.</span></h2>
   </div>
@@ -1287,7 +1290,7 @@ def bau():
     <h2 class="headline" style="font-size:70px;max-width:1350px;">Worin Gründer zu früh <span class="schimmer">investieren</span></h2>
     <div class="karten"><div class="karte fragment"><div class="innen"><div class="seite vorn"><span>Logo</span><span>Website</span><span>Visitenkarten</span></div><div class="seite hinten"><b>Keiner sieht dich.</b></div></div></div><div class="karte fragment"><div class="innen"><div class="seite vorn"><span>Büromöbel</span><span>Büro</span><span>Schicke Gegenstände</span></div><div class="seite hinten"><b>Keiner besucht dich.</b></div></div></div><div class="karte fragment"><div class="innen"><div class="seite vorn"><span>Investoren</span><span>Testphasen</span></div><div class="seite hinten"><b>Bubble.</b></div></div></div></div>
   </div>
-  <figure class="polaroid quelle-foto" style="--d:5deg;--y:0px;--i:0;"><img src="assets/fotos/tough-talks.jpg" alt="Emre am Whiteboard in den Tough Talks"><figcaption>Tough Talks, ein Format unseres<br>YouTube-Kanals</figcaption></figure>
+  <figure class="polaroid quelle-foto" style="--d:5deg;--y:0px;--i:0;"><img src="assets/fotos/tough-talks.jpg" alt="Emre am Whiteboard in den Tough Talks"><figcaption>Tough Talks, ein Format<br>unseres YouTube-Kanals</figcaption></figure>
   {notizen("Die drei Punkte stammen aus Emres Whiteboard in den Tough Talks, einem Format unseres YouTube-Kanals (oben rechts). Drei Karten, drei Klicks. Vorne das, worin fast jeder Gründer zuerst Zeit und Geld steckt. Umgedreht die Wahrheit: Logo, Website, Visitenkarten, keiner sieht dich. Büro, Möbel, schicke Sachen, keiner besucht dich. Investoren und ewige Testphasen, du lebst in einer Blase. Emre erzählt dazu, was wir selbst falsch gemacht haben.")}
 </section>
 
@@ -1538,7 +1541,7 @@ def bau():
 
 <!-- ============ ENDE ============ -->
 <section class="f-hblau" data-stimmung="hblau" data-chrome="zahl">
-  <img class="ende-foto" src="assets/fotos/duo-event.jpg" alt="Emre Erdogan und Edgar Paul-Ghazaryan">
+  <img class="ende-foto" src="assets/fotos/duo-event-hoch.jpg" alt="Emre Erdogan und Edgar Paul-Ghazaryan">
   <div class="slide schluss">
     <h2 class="hero">Und jetzt:<br><span class="schimmer">ausprobieren.</span></h2>
     <div class="kontakt"><img src="assets/logos/edge-logo-white.png" alt="EDGE Digital"><p><b>Emre Erdogan &amp; Edgar Paul-Ghazaryan</b><br>{KONTAKT}</p></div>
@@ -1554,15 +1557,15 @@ def bau():
 .bento figure { margin: 0; border-radius: 14px; overflow: hidden; min-height: 0; background: #111; }
 .bento img { width: 100%; height: 100%; object-fit: cover; display: block; margin: 0 !important; max-width: none !important; max-height: none !important; }
 .bento .b-sofa { grid-column: 1; grid-row: 1 / 3; }
-.bento .b-sofa img { object-position: 40% 70%; }
+.bento .b-sofa img { object-position: 50% 78%; }
 .bento .b-rathaus { grid-column: 2 / 4; grid-row: 1; }
-.bento .b-rathaus img { object-position: 50% 62%; }
+.bento .b-rathaus img { object-position: 50% 40%; }
 .bento .b-schild { grid-column: 2; grid-row: 2; }
-.bento .b-schild img { object-position: 50% 50%; }
+.bento .b-schild img { object-position: 30% 55%; }
 .bento .b-tisch { grid-column: 3; grid-row: 2; }
-.bento .b-tisch img { object-position: 50% 45%; }
+.bento .b-tisch img { object-position: 60% 45%; }
 .bento .b-regal { grid-column: 4; grid-row: 1 / 3; }
-.bento .b-regal img { object-position: 45% 50%; }
+.bento .b-regal img { object-position: 60% 55%; }
 .reveal section.present .bento figure { animation: kachel-ein .6s calc(.1s + var(--i) * .12s) cubic-bezier(.2,.8,.3,1) both; }
 @keyframes kachel-ein { from { opacity: 0; transform: scale(.94); } to { opacity: 1; transform: none; } }
 body.standbild .bento figure { animation: none !important; }
